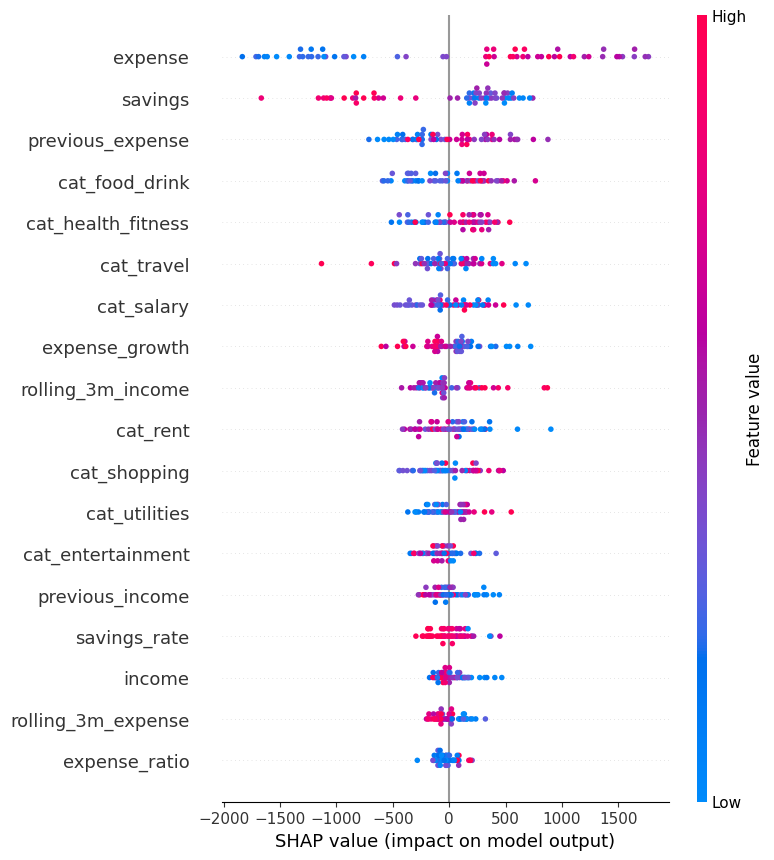
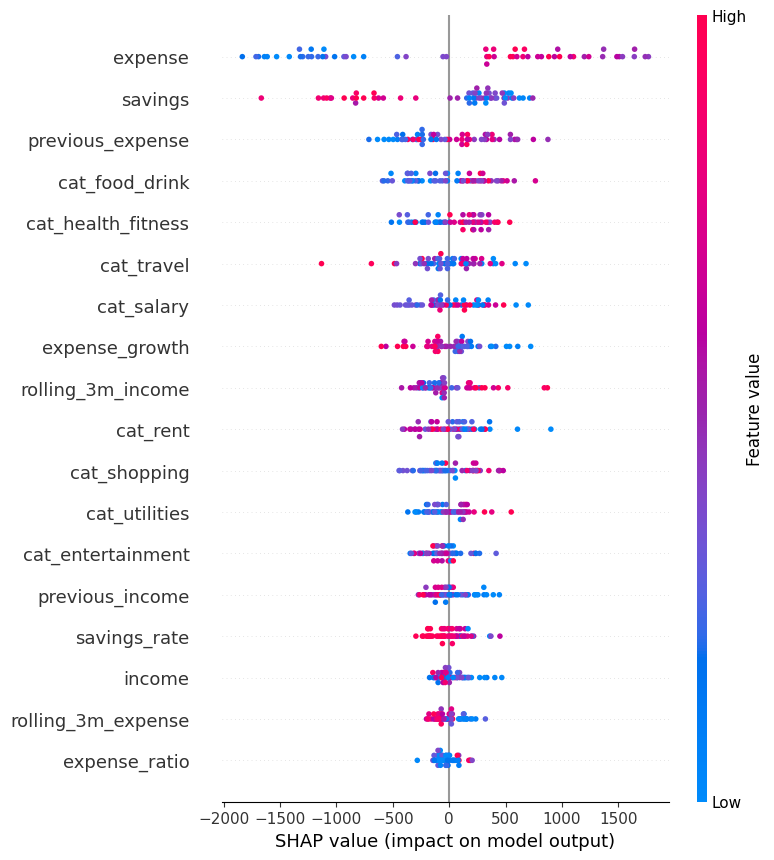
Phase 6.9: Add missing Pillow and joblib to requirements.txt for Streamlit deployment

diff --git a/model/src/generate_eda.py b/model/src/generate_eda.py
@@ -1,0 +1,127 @@
+import json
+
+notebook = {
+ "cells": [
+  {
+   "cell_type": "markdown",
+   "metadata": {},
+   "source": ["# Exploratory Data Analysis (EDA)\n", "This notebook analyzes the transaction dataset to find correlations, distributions, and patterns. We check for missing values, duplicates, and outline the general financial profile."]
+  },
+  {
+   "cell_type": "code",
+   "execution_count": None,
+   "metadata": {},
+   "outputs": [],
+   "source": [
+    "import pandas as pd\n",
+    "import matplotlib.pyplot as plt\n",
+    "import seaborn as sns\n",
+    "import os\n\n",
+    "df = pd.read_csv('../model/data/Personal_Finance_Dataset.csv')\n",
+    "df['Date'] = pd.to_datetime(df['Date'])\n",
+    "print(f\"Dataset Shape: {df.shape}\")\n",
+    "print(f\"Missing Values:\\n{df.isnull().sum()}\\n\")\n",
+    "print(f\"Duplicate Rows: {df.duplicated().sum()}\")\n",
+    "df.head()"
+   ]
+  },
+  {
+   "cell_type": "markdown",
+   "metadata": {},
+   "source": ["## 1. Monthly Expense Trend"]
+  },
+  {
+   "cell_type": "code",
+   "execution_count": None,
+   "metadata": {},
+   "outputs": [],
+   "source": [
+    "expenses = df[df['Type'].str.lower() == 'expense']\n",
+    "monthly_expenses = expenses.resample('ME', on='Date')['Amount'].sum()\n",
+    "plt.figure(figsize=(10,5))\n",
+    "monthly_expenses.plot(kind='line', marker='o', color='red')\n",
+    "plt.title('Monthly Expense Trend')\n",
+    "plt.ylabel('Amount')\n",
+    "plt.show()"
+   ]
+  },
+  {
+   "cell_type": "markdown",
+   "metadata": {},
+   "source": ["## 2. Category Distribution & Outliers"]
+  },
+  {
+   "cell_type": "code",
+   "execution_count": None,
+   "metadata": {},
+   "outputs": [],
+   "source": [
+    "plt.figure(figsize=(12,6))\n",
+    "sns.boxplot(x='Category', y='Amount', data=expenses)\n",
+    "plt.title('Expense Distribution by Category (Outlier Detection)')\n",
+    "plt.xticks(rotation=45)\n",
+    "plt.show()\n\n",
+    "cat_sum = expenses.groupby('Category')['Amount'].sum().sort_values(ascending=False)\n",
+    "plt.figure(figsize=(10,5))\n",
+    "sns.barplot(x=cat_sum.index, y=cat_sum.values)\n",
+    "plt.title('Total Spending by Category')\n",
+    "plt.xticks(rotation=45)\n",
+    "plt.show()"
+   ]
+  },
+  {
+   "cell_type": "markdown",
+   "metadata": {},
+   "source": ["## 3. Savings Trend (Income vs Expense)"]
+  },
+  {
+   "cell_type": "code",
+   "execution_count": None,
+   "metadata": {},
+   "outputs": [],
+   "source": [
+    "income = df[df['Type'].str.lower() == 'income'].resample('ME', on='Date')['Amount'].sum()\n",
+    "savings = income - monthly_expenses\n",
+    "plt.figure(figsize=(10,5))\n",
+    "savings.plot(kind='bar', color=savings.apply(lambda x: 'green' if x > 0 else 'red'))\n",
+    "plt.title('Monthly Savings (Income - Expense)')\n",
+    "plt.ylabel('Savings Amount')\n",
+    "plt.show()"
+   ]
+  },
+  {
+   "cell_type": "markdown",
+   "metadata": {},
+   "source": ["## 4. Correlation Matrix (Monthly Features)"]
+  },
+  {
+   "cell_type": "code",
+   "execution_count": None,
+   "metadata": {},
+   "outputs": [],
+   "source": [
+    "features_df = pd.read_csv('../model/data/monthly_features.csv')\n",
+    "plt.figure(figsize=(12,8))\n",
+    "sns.heatmap(features_df.drop(['year_month'], axis=1).corr(), annot=True, cmap='coolwarm', fmt='.2f')\n",
+    "plt.title('Feature Correlation Matrix')\n",
+    "plt.show()"
+   ]
+  }
+ ],
+ "metadata": {
+  "kernelspec": {
+   "display_name": "Python 3",
+   "language": "python",
+   "name": "python3"
+  },
+  "language_info": {
+   "name": "python"
+  }
+ },
+ "nbformat": 4,
+ "nbformat_minor": 4
+}
+
+with open('../../notebooks/01_eda.ipynb', 'w') as f:
+    json.dump(notebook, f, indent=1)
+print("Updated EDA notebook successfully.")
